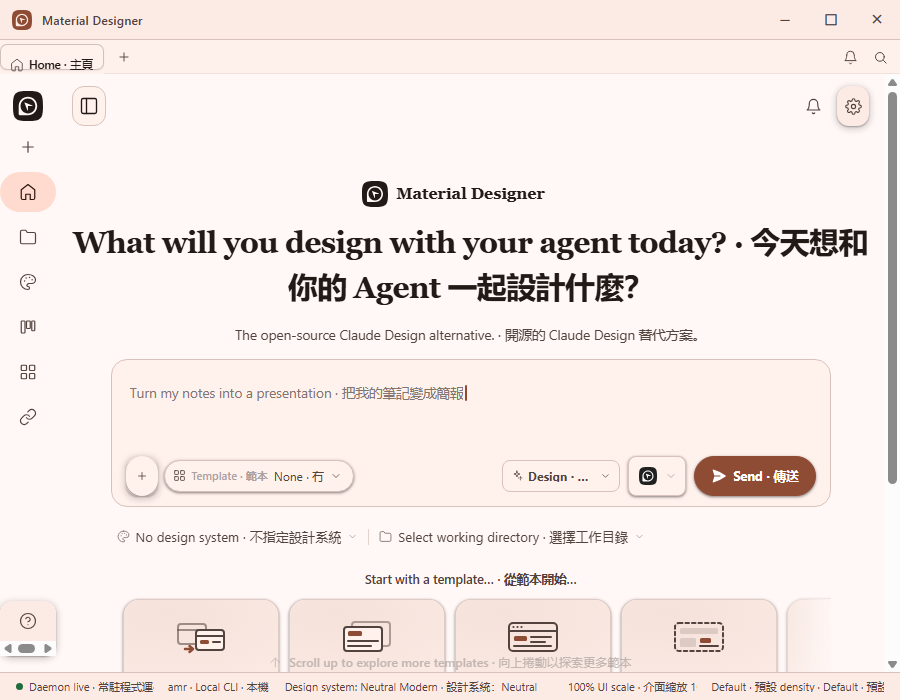
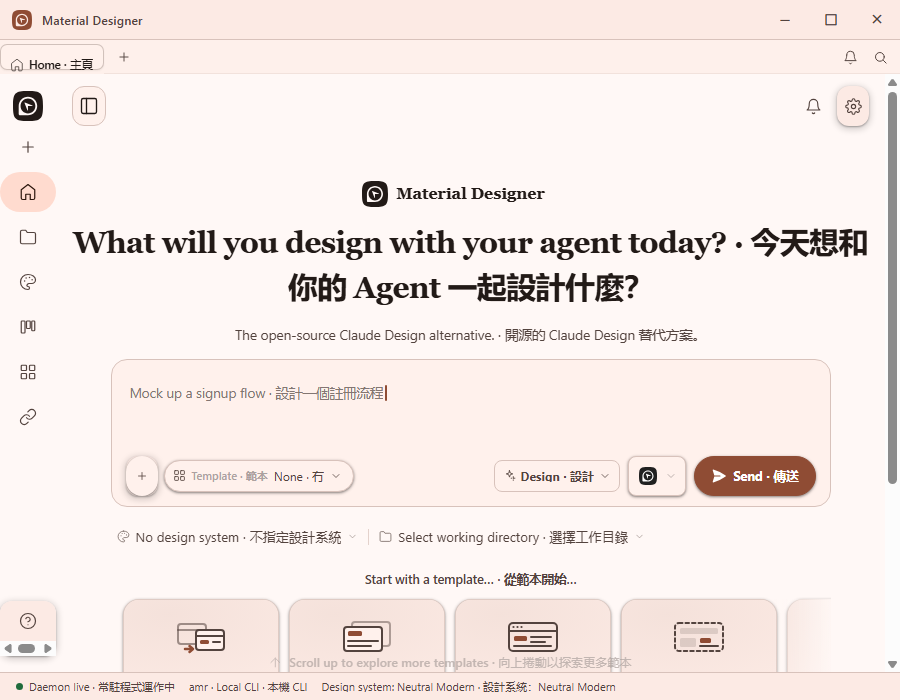
docs: bilingual clipping is fixed, and the capture proves it
Replaces the bilingual-at-900px image with the same state after cd0996d.
`Design · 設計` renders in full where it read `Design · …`, and nothing runs
off the right edge.

The caption now records the cause, because it is a trap worth naming: the
status bar's segments were flex containers carrying text-overflow: ellipsis,
and text-overflow does nothing to an anonymous flex item. So the text was not
being shortened politely — it was hard-clipping mid-glyph, with no ellipsis to
signal it and no way to read the rest.

One defect from the same capture is still open and now has its own line: the
scroll hint is drawn on top of the template cards, and the card row is cut by
the 28px status bar, which suggests the content area is not accounting for a
bar the shell only recently gained.

廣東話:雙語切字修好咗,張相為證 —— `Design · 設計` 完整出到嚟。真正原因值得
記低:啲 segment 係 flex container,而 `text-overflow: ellipsis` 對 anonymous
flex item 係完全冇作用,所以佢唔係斯斯文文縮短,係硬生生斬半隻字,連個「…」
都冇。同一張相仲有一個未修:底部個提示壓住咗啲範本卡。

Changed region(s): [[0.1556, 0.96, 0.9956, 0.99], [0.1244, 0.54, 0.5289, 0.57], [0.56, 0.66, 0.6533, 0.69]]

diff --git a/ROADMAP.md b/ROADMAP.md
@@ -589,13 +589,20 @@ meeting it.
       layout viewport. The capture run reports `innerWidth` 640 at 200% (was
       1280), `overflowX` 0 at all four scales, and the images show the heading
       wrapping instead of clipping with the status bar on screen.
-- [ ] **Bilingual mode clips at 900px.** The status bar's density segment runs
-      off the right edge (`Default · 預設 density · Default · 預…`) and the
-      Design control truncates to an ellipsis. Bilingual pairs both languages
-      on every label, so it produces the longest strings in the product and is
-      where clipping appears first — which is why the capture set covers it.
-      The failing image is published in the README rather than quietly
-      retaken.
+- [x] **Bilingual mode clipped at 900px.** *Closed at `cd0996d`, confirmed by a
+      capture.* The cause was not width: the status bar's segments were
+      `display: flex` with `text-overflow: ellipsis`, and `text-overflow` does
+      nothing to an anonymous flex item — so text hard-clipped mid-glyph with
+      no ellipsis and no way to read the rest. Segments now ellipsise properly
+      and carry their full text in a tooltip, the daemon segment never yields
+      room, and the appearance readouts step aside at narrow widths through
+      the repository's own screen-reader-only pattern so they stay announced.
+      `Design · 設計` renders in full.
+- [ ] **Bottom overlap at a narrow window.** The scroll hint
+      (`Scroll up to explore more templates · 向上捲動以探索更多範本`) is drawn
+      on top of the template cards behind it, and the card row is cut by the
+      28px status bar — the content area does not appear to account for the
+      bar's height, which is new.
 - [ ] **`t()` doubles a bilingual value used as an interpolation variable.**
       Found while fixing the clipping above, and it is the biggest single
       contributor to that overflow. `t()` composes the two languages **and

diff --git a/README.md b/README.md
@@ -21,12 +21,13 @@ fresh install showed no rail at all.</sub>
 
 ![The same screen in bilingual mode at a 900px window — Chinese and English paired on every label, with the status bar's density readout running off the right edge](assets/screenshots/home-bilingual-narrow.png)
 
-<sub>The same build in bilingual mode at the narrowest supported window, and the reason
-that capture exists: <b>it is showing a real defect.</b> The status bar's density segment
-runs off the right edge and the Design control truncates to an ellipsis. Bilingual mode
-produces the longest strings in the product, so it is where clipping appears first —
-which is exactly why the capture set covers it, and why this image is published rather
-than quietly retaken.</sub>
+<sub>Bilingual mode at the narrowest supported window, after the fix. The previous image
+here showed the status bar's density readout running off the right edge and the Design
+control truncated to <code>Design · …</code> — the segments were flex containers with
+<code>text-overflow: ellipsis</code>, which does nothing to an anonymous flex item, so
+text hard-clipped mid-glyph with no ellipsis and no way to read the rest. Bilingual pairs
+both languages on every label, so it produces the longest strings in the product and is
+where clipping appears first; that is why the capture set covers it.</sub>
 
 > [!NOTE]
 > **The application ships, and what it ships is now most of the way through the
